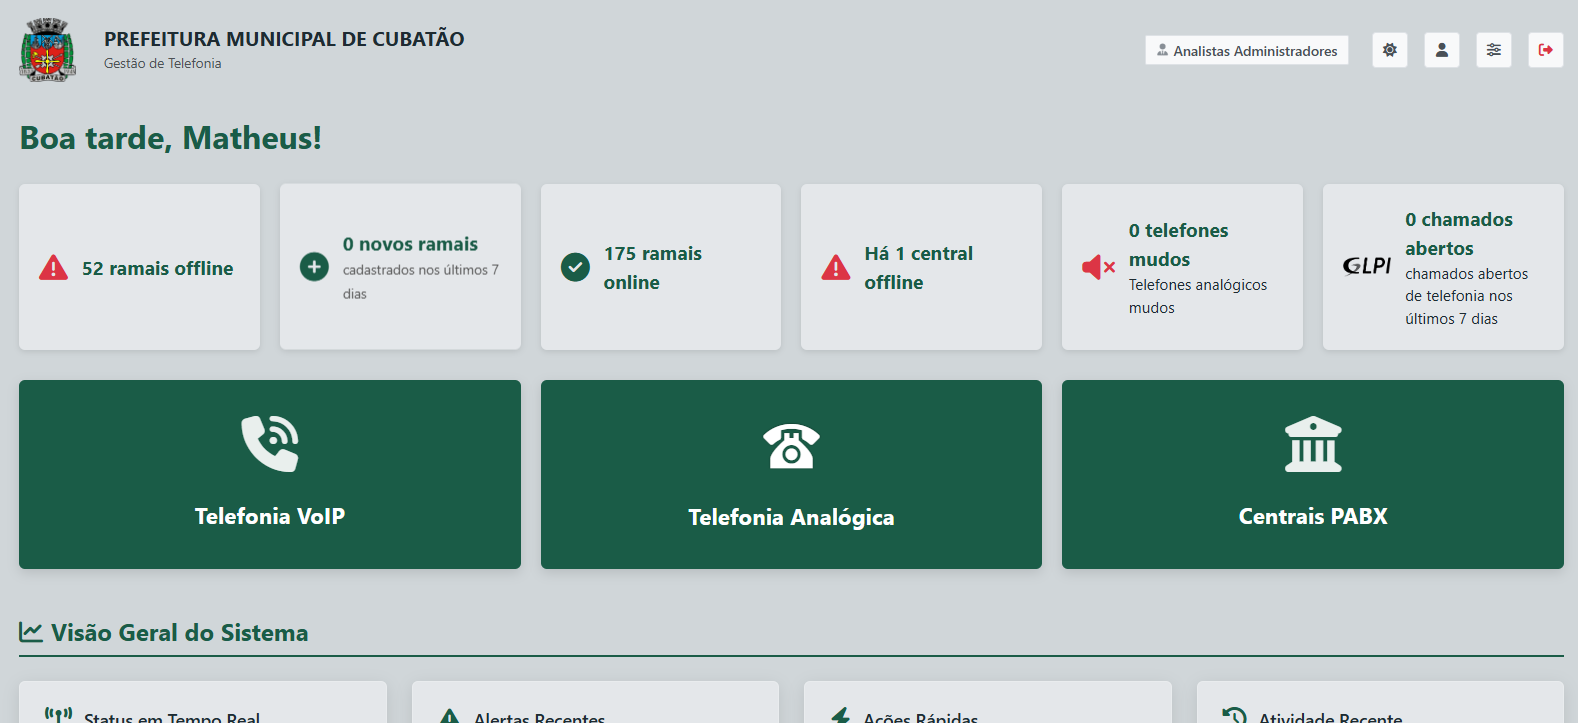
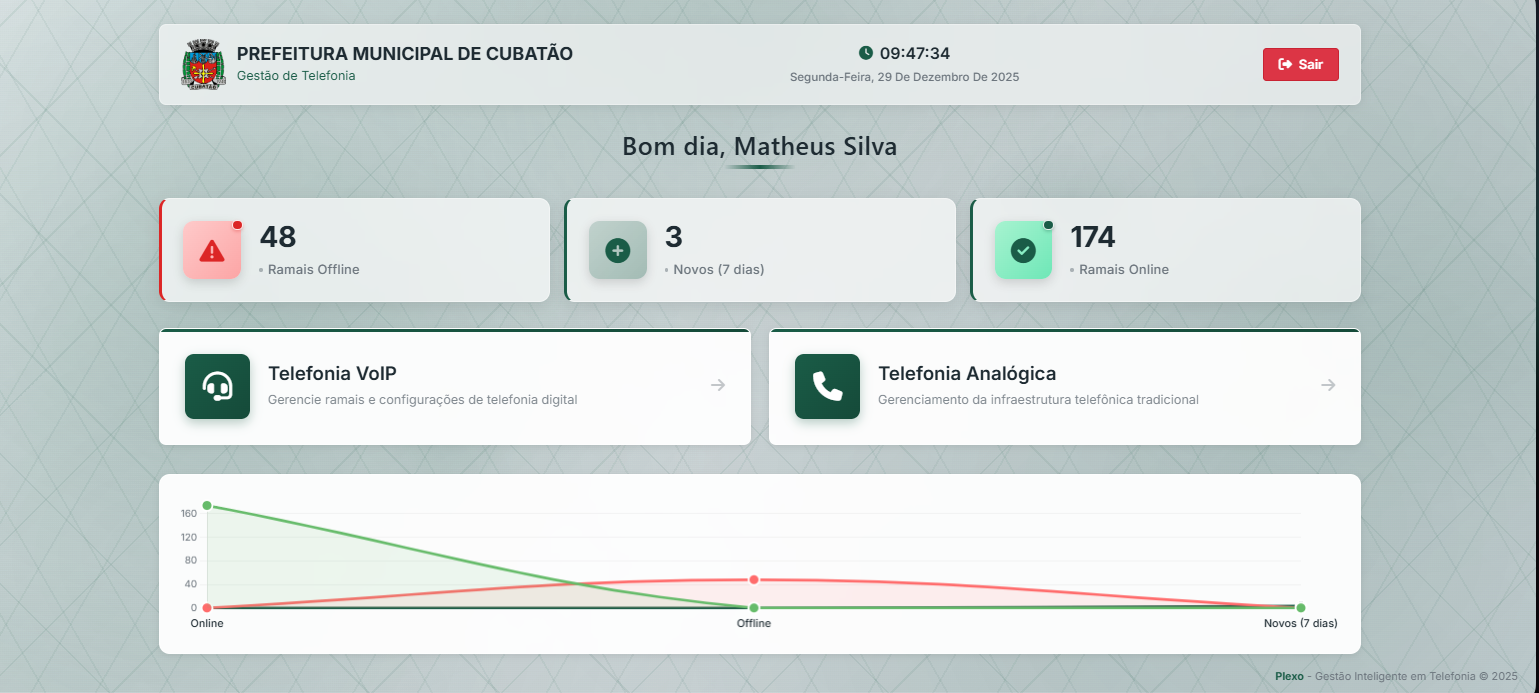
tssfks

diff --git a/index.html b/index.html
@@ -1182,7 +1182,7 @@
                 companyDesc: 'Serviços completos de desenvolvimento web e mobile, infraestrutura e soluções de redes, da concepção à implementação.',
                 location: 'Cubatão, SP - Brasil',
                 footerQuote: '"Transformando ideias em soluções digitais."',
-                footerRights: '© 2024 Matheus Silva. Todos os direitos reservados.',
+                footerRights: '© 2025 Matheus Silva. Todos os direitos reservados.',
                 successTitle: 'Mensagem Enviada!',
                 successMessage: 'Obrigado pelo contato! Entrarei em contato em breve.',
                 form: {
